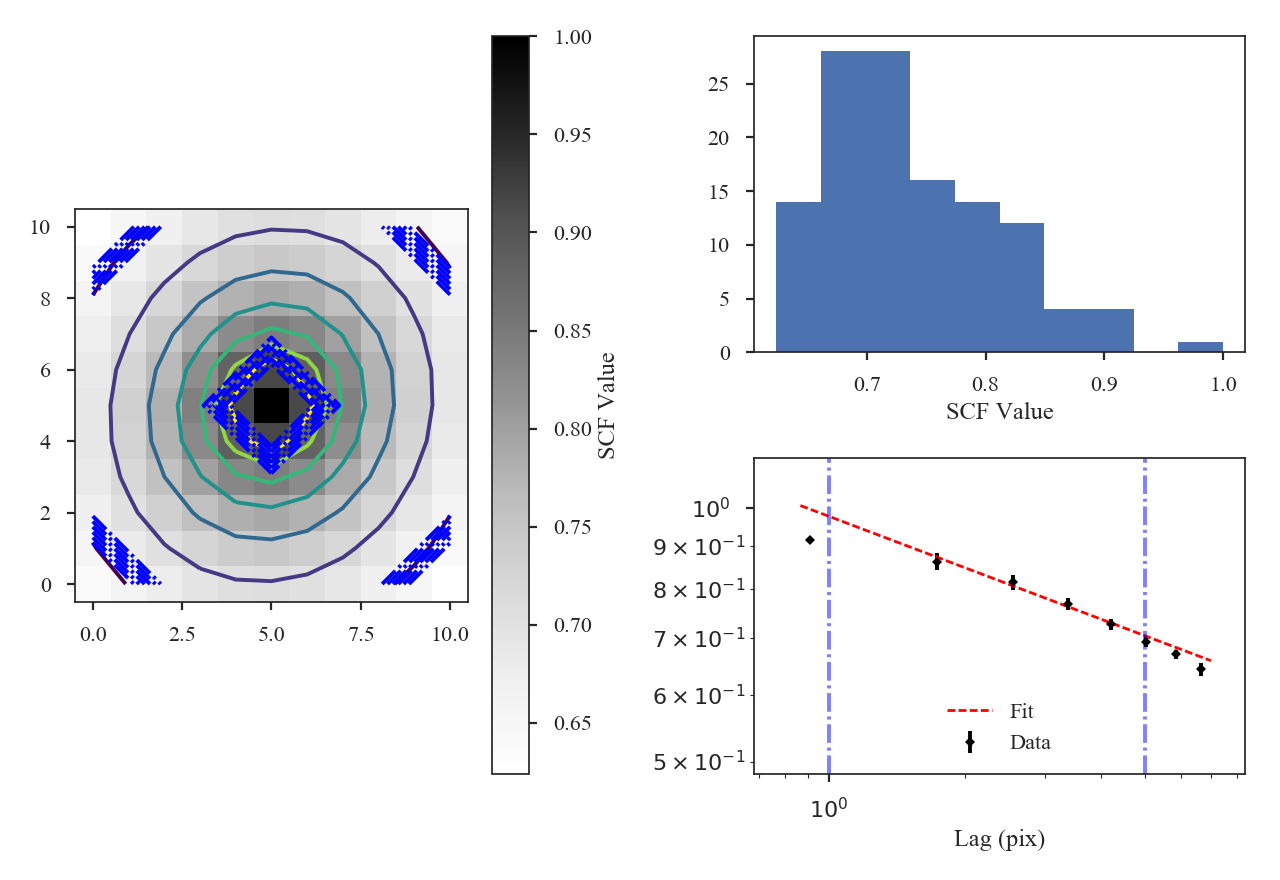
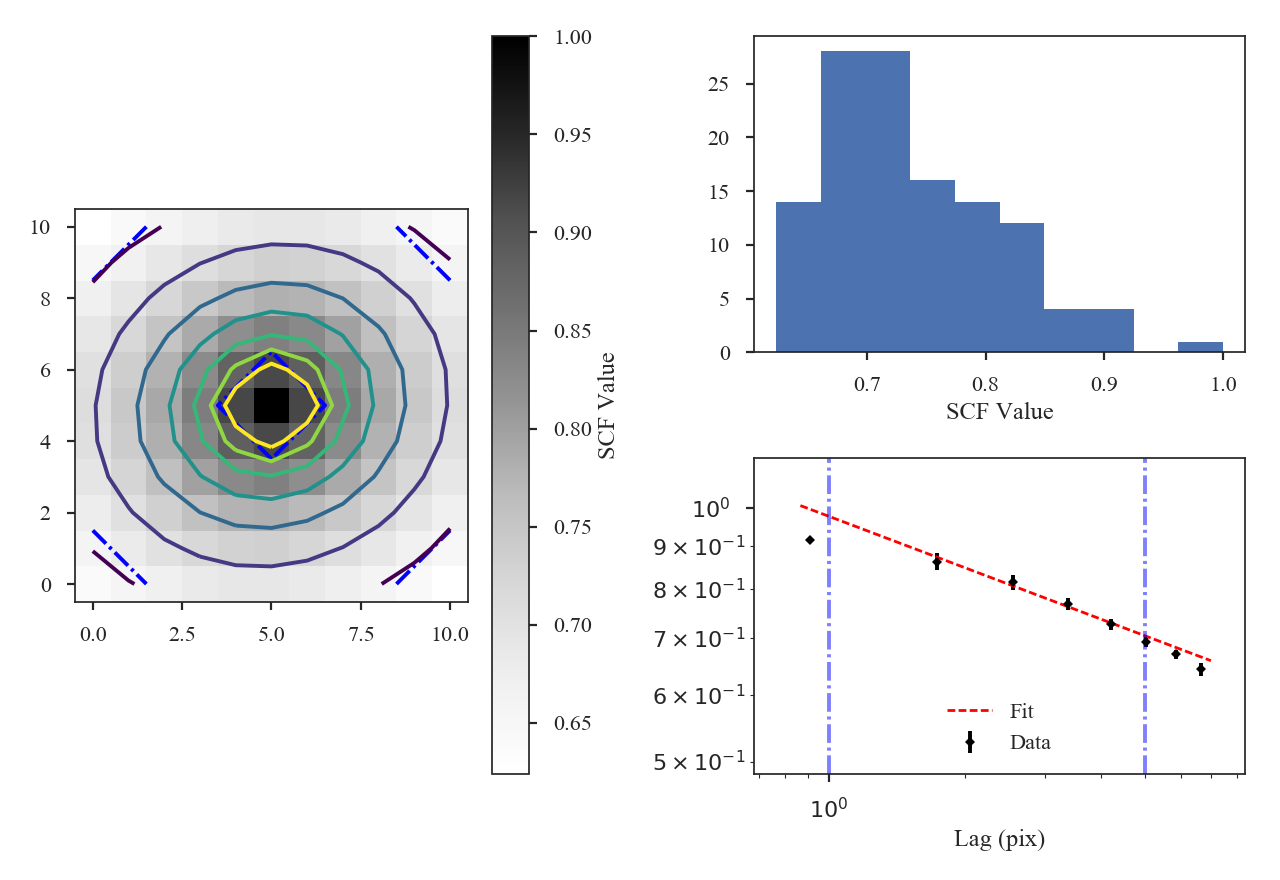
Update SCF tutorial and add section for azimuthal masking

Changed region(s): [[0.0625, 0.2455, 0.375, 0.675]]

diff --git a/docs/tutorials/statistics/code_for_tutorials.py b/docs/tutorials/statistics/code_for_tutorials.py
@@ -367,6 +367,12 @@ if run_scf:
     scf.run(verbose=True, xlow=1 * u.pix, xhigh=5 * u.pix,
             save_name=osjoin(fig_path, "design4_scf_fitlimits.png"))
 
+    # With azimuthal constraints
+    scf.run(verbose=True, xlow=1 * u.pix, xhigh=5 * u.pix,
+            radialavg_kwargs={"theta_0": 1.13 * u.rad, "delta_theta": 70 * u.deg},
+            save_name=osjoin(fig_path, "design4_scf_fitlimits_azimlimits.png"))
+
+
     # Custom lags w/ phys units
     distance = 250 * u.pc  # Assume a distance
     phys_conv = (np.abs(cube.header['CDELT2']) * u.deg).to(u.rad).value * distance

diff --git a/docs/tutorials/statistics/scf_example.rst b/docs/tutorials/statistics/scf_example.rst
@@ -74,13 +74,13 @@ The summary plot shows the correlation surface, a histogram of correlation value
 The 2D model parameters are not shown in the above summary. Instead, the parameters can be accessed with:
 
     >>> print(scf.slope2D, scf.slope2D_err)  # doctest: +SKIP
-    (-0.21648274416050342, 7.8586198274582797e-05)
+    (-0.21648274416050342, 0.0029877489213308711)
     >>> print(scf.ellip2D, scf.ellip2D_err)  # doctest: +SKIP
-    (0.89100428375797669, 0.00022227119552445208)
+    (0.89100428375797669, 0.013283231941591638)
     >>> print(scf.theta2D, scf.theta2D_err)  # doctest: +SKIP
-    (1.901971529507771, 0.00098767168667635019)
+    (0.33117523945671401, 0.06876652735591221)
 
-Since each value in the SCF surface is an average over the whole cube, it is less affected by noise than the power-spectrum based methods (e.g., :ref:`PowerSpectrum tutorial <pspec_tutorial>`) and the 2D fit is highly constrained despite having many fewer points to fit to. The slope of the 2D model is much steeper than the slope of the 1D model. In the 2D model, the index is defined to be the slope along the minor axis, where the slope is the steepest. The ability to return the slope at any angle will be added to TurbuStat in a future release.
+Since each value in the SCF surface is an average over the whole cube, it is tends to be less affected by noise than the power-spectrum based methods (e.g., :ref:`PowerSpectrum tutorial <pspec_tutorial>`) and the 2D fit is highly constrained despite having many fewer points to fit to. The slope of the 2D model is much steeper than the slope of the 1D model. In the 2D model, the index is defined to be the slope along the minor axis, where the slope is the steepest. The ability to return the slope at any angle will be added to TurbuStat in a future release.
 
 
 Real data may not have a spectrum described by a single power-law. In this case, the fit limits can be specified using `xlow` and `xhigh` to limit which scales are used in the fit.
@@ -110,6 +110,36 @@ Real data may not have a spectrum described by a single power-law. In this case,
     ==============================================================================
 
 .. image:: images/design4_scf_fitlimits.png
+
+The one-dimensional power spectrum in the previous examples is averaged over all azimuthal angles. In cases where only a certain range of angles is of interest, limits on the averaged azimuthal angles can be given:
+
+    >>> scf.run(verbose=True, xlow=1 * u.pix, xhigh=5 * u.pix, radialavg_kwargs={"theta_0": 1.13 * u.rad, "delta_theta": 70 * u.deg})  # doctest: +SKIP
+                                WLS Regression Results
+    ==============================================================================
+    Dep. Variable:                      y   R-squared:                       0.987
+    Model:                            WLS   Adj. R-squared:                  0.981
+    Method:                 Least Squares   F-statistic:                     157.2
+    Date:                Mon, 02 Oct 2017   Prob (F-statistic):            0.00630
+    Time:                        09:00:45   Log-Likelihood:                 17.721
+    No. Observations:                   4   AIC:                            -31.44
+    Df Residuals:                       2   BIC:                            -32.67
+    Df Model:                           1
+    Covariance Type:            nonrobust
+    ==============================================================================
+                     coef    std err          t      P>|t|      [0.025      0.975]
+    ------------------------------------------------------------------------------
+    const         -0.0067      0.010     -0.695      0.559      -0.048       0.035
+    x1            -0.2098      0.017    -12.539      0.006      -0.282      -0.138
+    ==============================================================================
+    Omnibus:                          nan   Durbin-Watson:                   1.899
+    Prob(Omnibus):                    nan   Jarque-Bera (JB):                0.449
+    Skew:                          -0.003   Prob(JB):                        0.799
+    Kurtosis:                       1.358   Cond. No.                         14.4
+    ==============================================================================
+
+.. image:: images/design4_scf_fitlimits_azimlimits.png
+
+`theta_0` is the angle at the center of the azimuthal mask and `delta_theta` is the width of that mask. The mask is shown on the SCF surface by the radial blue-dashed contours.
 
 Here the fit limits were given in pixel units, but angular units and physical units (if a distance is given) can also be passed. For these data, there is some deviation from a power-law at small lags over the range of lags used and so limiting the fitting range has not significantly changed the fit. See Figure 8 in :ref:`Padoan et al. 2001 <ref-padoan2001>` for an example of deviations from power-law behaviour in the SCF spectrum.
 
